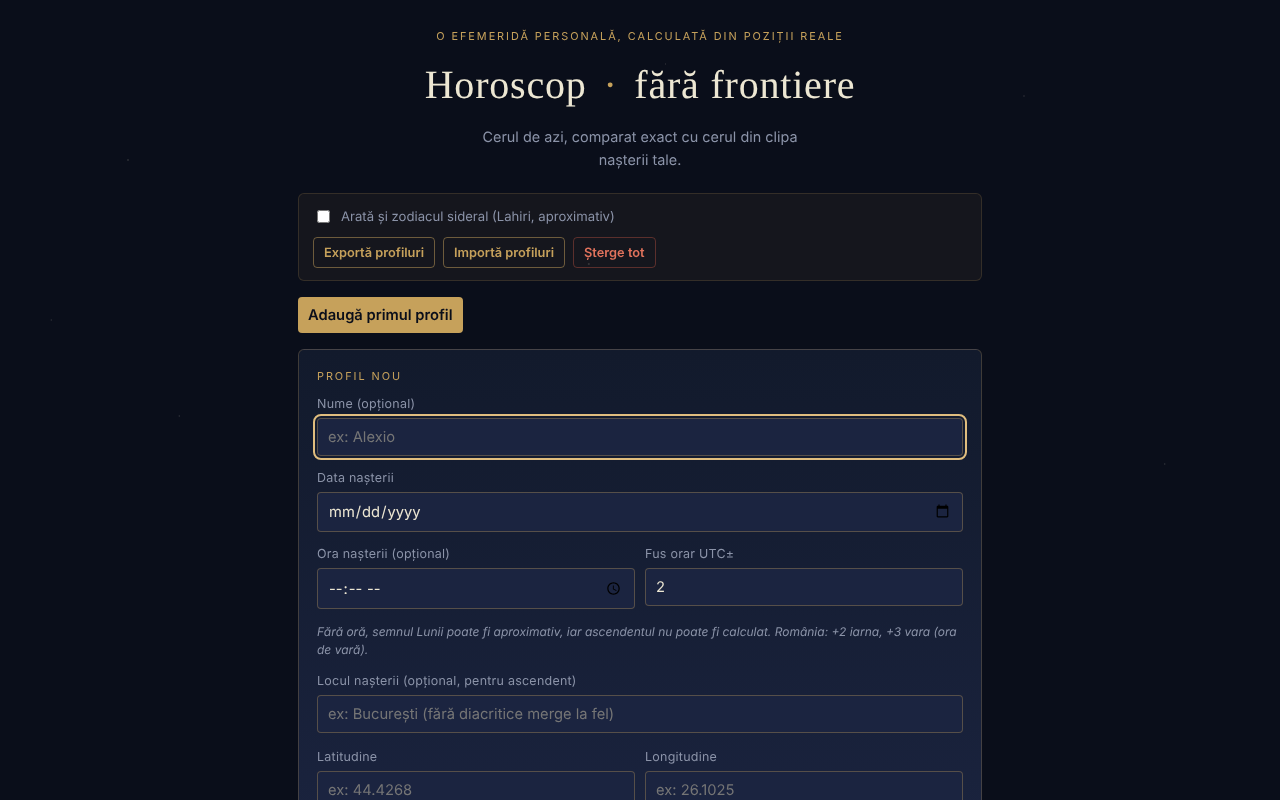
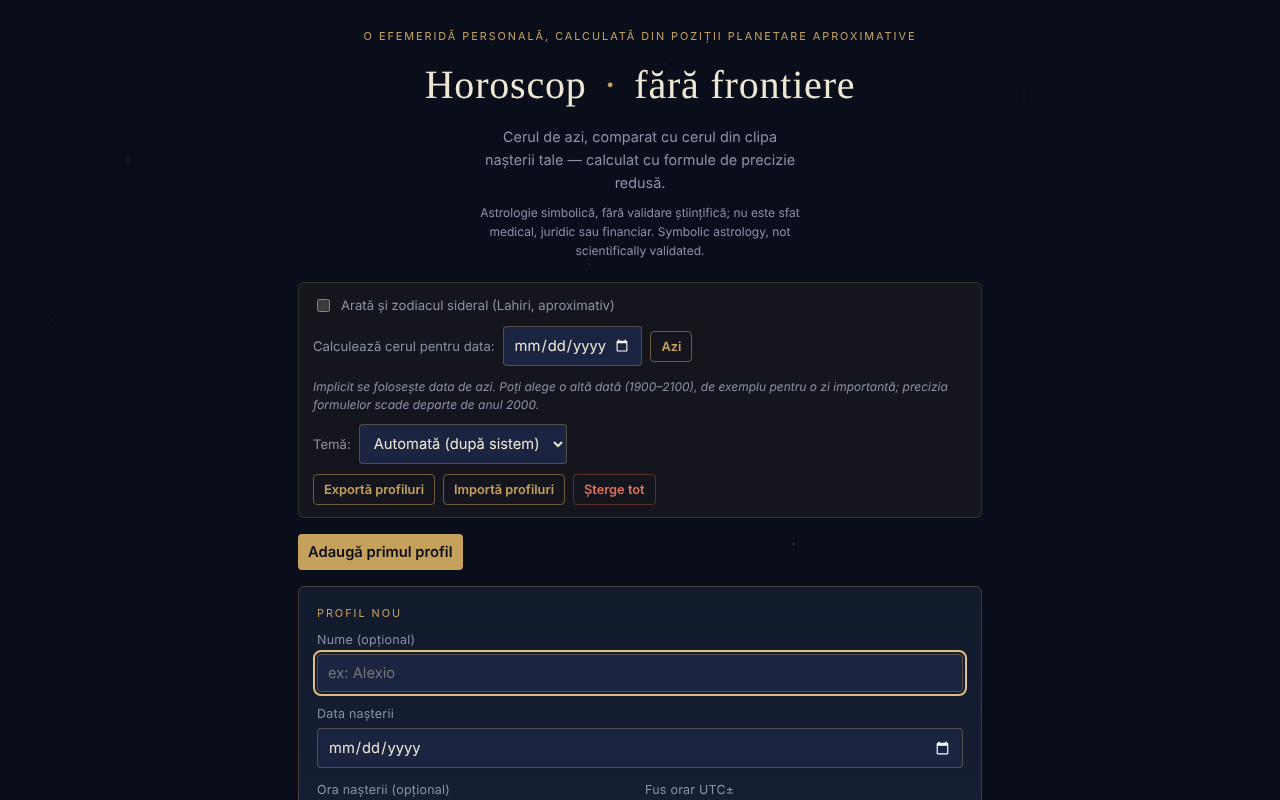
Runda 6 (11 octombrie 2026): reparații și îmbunătățiri
Claude-Session: https://claude.ai/code/session_01D2sCEb3hy3nutYexhUfQFs

diff --git a/index.html b/index.html
@@ -4,7 +4,8 @@
 <meta charset="UTF-8">
 <meta name="viewport" content="width=device-width, initial-scale=1.0">
 <meta name="theme-color" content="#0a0e1a">
-<meta http-equiv="Content-Security-Policy" content="default-src 'none'; script-src 'sha256-qpChykklblVjftxe5uCfiKr0xCiEGfCIja/RLh8Pb7I='; style-src 'unsafe-inline'; connect-src 'none'; base-uri 'none'; form-action 'none';">
+<meta name="color-scheme" content="dark light">
+<meta http-equiv="Content-Security-Policy" content="default-src 'none'; script-src 'sha256-+s0Jozu7zyEGLCtU2QJmF/vAf27/NO/pkwvtp1FY1+Q='; style-src 'unsafe-inline'; connect-src 'none'; base-uri 'none'; form-action 'none';">
 <meta name="copyright" content="Licență nedeclarată de autor; toate drepturile rezervate până la o declarație contrară. Contact: alexio@trom.tf">
 <title>Horoscop · fără frontiere</title>
 <!-- Licență: nedeclarată de autor; toate drepturile rezervate până la o declarație contrară. Contact: alexio@trom.tf
@@ -19,6 +20,28 @@
   --sans:Optima,Candara,'Noto Sans','Segoe UI',Arial,sans-serif;
   --mono:'Courier New',ui-monospace,'SF Mono',Consolas,monospace;
 }
+/* temă luminoasă: automat după preferința sistemului sau forțat din setări */
+:root[data-theme="dark"]{color-scheme:dark;}
+:root[data-theme="light"]{
+  color-scheme:light;
+  --ink-900:#f5f0e1; --ink-800:#fffcf4; --ink-700:#ece4cf;
+  --parchment:#1f1b2e; --parchment-dim:#575e72;
+  --brass:#7a5516; --brass-bright:#634410;
+  --verdigris:#266a53; --oxblood:#8f3a2c; --oxblood-text:#9c3424;
+}
+:root[data-theme="light"] .stars{opacity:0;animation:none}
+@media (prefers-color-scheme: light){
+  :root:not([data-theme="dark"]){
+    --ink-900:#f5f0e1; --ink-800:#fffcf4; --ink-700:#ece4cf;
+    --parchment:#1f1b2e; --parchment-dim:#575e72;
+    --brass:#7a5516; --brass-bright:#634410;
+    --verdigris:#266a53; --oxblood:#8f3a2c; --oxblood-text:#9c3424;
+  }
+  :root:not([data-theme="dark"]) .stars{opacity:0;animation:none}
+}
+.ref-row{display:flex;gap:8px;align-items:center;flex-wrap:wrap;font-size:.82rem;color:var(--parchment-dim);}
+.ref-row input[type=date]{min-width:9.5em;}
+.ref-row button{font-size:.8rem;padding:7px 10px;}
 *{box-sizing:border-box;}
 html,body{margin:0;padding:0;}
 body{
@@ -194,6 +217,16 @@ footer a{color:var(--brass-bright);}
   <main>
   <div class="settings-bar">
     <label class="toggle-label"><input type="checkbox" id="siderealToggle"> Arată și zodiacul sideral (Lahiri, aproximativ)</label>
+    <div class="ref-row">
+      <label for="refDate">Calculează cerul pentru data:</label>
+      <input type="date" id="refDate" min="1900-01-01" max="2100-12-31">
+      <button class="secondary" id="refToday" type="button">Azi</button>
+    </div>
+    <p class="hint" id="refNote" role="status">Implicit se folosește data de azi. Poți alege o altă dată (1900–2100), de exemplu pentru o zi importantă; precizia formulelor scade departe de anul 2000.</p>
+    <div class="ref-row">
+      <label for="themeSel">Temă:</label>
+      <select id="themeSel"><option value="auto">Automată (după sistem)</option><option value="dark">Întunecată</option><option value="light">Luminoasă</option></select>
+    </div>
     <div class="settings-actions">
       <button class="secondary" id="btnExport">Exportă profiluri</button>
       <button class="secondary" id="btnImport">Importă profiluri</button>
@@ -2097,7 +2130,7 @@ function interpret(natal, transits, aspects){
   var dp = out.dominant ? out.dominant.planetKey : null;
   var meta = dp ? PLANETS_META[dp] : null;
   out.luckyColor = meta ? meta.color : SIGN_COLOR_FALLBACK[sunSignIdx];
-  out.luckyHour = meta ? meta.hour : 'oricând azi';
+  out.luckyHour = meta ? meta.hour : 'oricând '+refWord();
   var now = transits.now;
   out.luckyNumber = ((now.getFullYear()+now.getMonth()+1+now.getDate()+Math.floor(natal.soare.deg)) % 9) + 1;
   var harmAspect = null;
@@ -2598,7 +2631,7 @@ function renderNatalSummary(el, natal, solarReturnD, nowD, milestones, birthDate
 function renderTransitsList(el, transits, eyebrowEl){
   var now = transits.now;
   var dateStr = now.toLocaleDateString('ro-RO', {day:'numeric', month:'long', year:'numeric'});
-  eyebrowEl.textContent = 'Cerul de azi — '+dateStr;
+  eyebrowEl.textContent = state.refDate ? 'Cerul la data de '+dateStr : 'Cerul de azi — '+dateStr;
   var order = ['soare','luna','mercur','venus','marte','jupiter','saturn','uranus','neptun','pluto'];
   var html='';
   var ayNow = state.showSidereal ? ayanamsaLahiri(transits.d) : null;
@@ -2627,7 +2660,7 @@ function renderTransitsList(el, transits, eyebrowEl){
     var hrsLeft = (transits.voc.ingressD - transits.d)*24;
     html += '<p class="note">Luna e goală de curs (fără alte aspecte majore) încă ~'+hrsLeft.toFixed(1)+' ore, până intră în '+SIGNS[transits.voc.nextSignIdx].name+'. Tradițional, nu e cel mai bun moment să începi lucruri noi.</p>';
   } else {
-    html += '<p class="note">Luna nu e goală de curs azi — mai formează cel puțin un aspect major înainte să schimbe semnul.</p>';
+    html += '<p class="note">Luna nu e goală de curs '+refWord()+' — mai formează cel puțin un aspect major înainte să schimbe semnul.</p>';
   }
   el.innerHTML = html;
 }
@@ -2850,7 +2883,7 @@ function renderWeekForecast(el, natal, fromD){
   var html = '';
   days.forEach(function(day, idx){
     var dt = new Date(Date.UTC(2000,0,1,12,0,0) + day.d*86400000);
-    var label = (idx===0 ? 'Azi' : dayNames[dt.getUTCDay()]) + ' ' + dt.getUTCDate() + '.' + String(dt.getUTCMonth()+1).padStart(2,'0');
+    var label = (idx===0 && !state.refDate ? 'Azi' : dayNames[dt.getUTCDay()]) + ' ' + dt.getUTCDate() + '.' + String(dt.getUTCMonth()+1).padStart(2,'0');
     var desc;
     if (day.best){
       var natalSym = day.best.natalKey==='asc' ? 'Asc' : PLANETS_META[day.best.natalKey].sym;
@@ -2981,6 +3014,7 @@ function saveSidereal(v){
 function buildShareText(profile, interp){
   var lines = [];
   lines.push('Horoscop · fără frontiere' + (profile && profile.name ? ' — ' + profile.name : ''));
+  if (state.refDate) lines.push('Data: ' + state.refDate);
   lines.push('');
   lines.push('Panorama: ' + interp.panorama);
   lines.push('');
@@ -3012,7 +3046,7 @@ function copyTodayReading(){
   var profile = state.profiles.find(function(p){ return p.id===state.activeId; });
   if (!profile){ showToast('Alege întâi un profil.'); return; }
   var natal = computeNatal(profile);
-  var transits = computeTransits(new Date());
+  var transits = computeTransits(nowDate());
   var aspects = computeAspects(natal, transits);
   var interp = interpret(natal, transits, aspects);
   var text = buildShareText(profile, interp);
@@ -3105,7 +3139,19 @@ function importProfilesFromFile(file){
 }
 
 /* ================= UI wiring ================= */
-var state = { profiles: loadProfiles(), activeId: loadActiveId(), editingId: null, showSidereal: loadSidereal() };
+var state = { profiles: loadProfiles(), activeId: loadActiveId(), editingId: null, showSidereal: loadSidereal(), refDate: null };
+var THEME_KEY = 'horoscopFF_theme_v1';
+function loadTheme(){ try { var v = localStorage.getItem(THEME_KEY); return (v==='dark' || v==='light') ? v : 'auto'; } catch(e){ return 'auto'; } }
+function applyTheme(v){
+  if (v==='dark' || v==='light') document.documentElement.setAttribute('data-theme', v);
+  else document.documentElement.removeAttribute('data-theme');
+}
+function nowDate(){
+  var m = state.refDate && /^(\d{4})-(\d{2})-(\d{2})$/.exec(state.refDate);
+  if (!m) return new Date();
+  return new Date(+m[1], +m[2]-1, +m[3], 12, 0, 0);
+}
+function refWord(){ return state.refDate ? 'în această zi' : 'azi'; }
 if (state.profiles.length && (!state.activeId || !state.profiles.some(function(p){ return p.id===state.activeId; }))){
   state.activeId = state.profiles.length ? state.profiles[0].id : null;
 }
@@ -3326,7 +3372,7 @@ function renderAll(){
   document.getElementById('profileForm').hidden = true;
   try {
     var natal = computeNatal(profile);
-    var now = new Date();
+    var now = nowDate();
     var transits = computeTransits(now);
     var aspects = computeAspects(natal, transits);
     var interp = interpret(natal, transits, aspects);
@@ -3380,6 +3426,25 @@ document.getElementById('siderealToggle').addEventListener('change', function(){
   state.showSidereal = this.checked;
   saveSidereal(state.showSidereal);
   renderAll();
+});
+var refInput = document.getElementById('refDate'), refNote = document.getElementById('refNote');
+var REF_DEFAULT_NOTE = refNote.textContent;
+function setRefDate(v){
+  var m = /^(\d{4})-(\d{2})-(\d{2})$/.exec(v || '');
+  var ok = m && +m[1] >= 1900 && +m[1] <= 2100 && !isNaN(new Date(+m[1], +m[2]-1, +m[3]).getTime());
+  if (v && !ok){ showToast('Data trebuie să fie între 1900 și 2100.'); v = ''; refInput.value = ''; }
+  state.refDate = v || null;
+  refNote.textContent = state.refDate ? 'Cerul și citirea sunt calculate pentru ' + state.refDate + ', nu pentru azi. Apasă „Azi” pentru a reveni.' : REF_DEFAULT_NOTE;
+  renderAll();
+}
+refInput.addEventListener('change', function(){ setRefDate(this.value); });
+document.getElementById('refToday').addEventListener('click', function(){ refInput.value = ''; setRefDate(''); });
+var themeSel = document.getElementById('themeSel');
+themeSel.value = loadTheme();
+applyTheme(themeSel.value);
+themeSel.addEventListener('change', function(){
+  applyTheme(this.value);
+  try { localStorage.setItem(THEME_KEY, this.value); } catch(e){}
 });
 document.getElementById('btnExport').addEventListener('click', exportProfiles);
 document.getElementById('btnCopyReading').addEventListener('click', copyTodayReading);

diff --git a/README.md b/README.md
@@ -21,6 +21,8 @@ Horoscop este o aplicație dintr-un singur fișier HTML care calculează în bro
 - „Muzica sferelor": fiecare planetă natală devine un ton („▶ Cântă tema ta" / „■ Oprește").
 - „Portret cosmic": videoclip de aproximativ 6 secunde generat local, descărcabil ca `portret-cosmic.webm`.
 - Opțiune pentru zodiacul sideral (Lahiri, aproximativ).
+- „Calculează cerul pentru data”: alegi o altă dată (1900–2100, ora 12:00 locală) și toate secțiunile (cerul, aspectele, săptămâna, citirea, copierea) se calculează pentru acea zi; „Azi” revine. Data aleasă nu se păstrează între sesiuni.
+- Temă: automată (după preferința sistemului), întunecată sau luminoasă; alegerea se păstrează local.
 - Secțiune „Cum se calculează asta" cu precizia estimată și limitele (nu sunt calculate casele astrologice, doar ascendentul).
 
 ## Manual de utilizare
@@ -29,13 +31,13 @@ Horoscop este o aplicație dintr-un singur fișier HTML care calculează în bro
 2. Completează data nașterii; opțional numele, ora, fusul orar UTC± (România: +2 iarna, +3 vara) și latitudinea/longitudinea locului. Fără oră, ascendentul nu poate fi calculat.
 3. Apasă „Salvează profilul" (sau „Renunță").
 4. Citește secțiunile zilei; „↻ Actualizează acum" recalculează cerul.
-5. Bifează opțiunea pentru zodiac sideral dacă dorești.
+5. Bifează opțiunea pentru zodiac sideral dacă dorești; din „Calculează cerul pentru data” poți vedea cerul într-o altă zi; din „Temă” alegi aspectul.
 6. Pentru muzică apasă „▶ Cântă tema ta"; pentru video „🎬 Generează portretul", apoi descarcă fișierul.
 7. „Exportă profiluri" salvează profilurile într-un fișier; „Importă profiluri" le reîncarcă; „Șterge tot" le elimină. Tasta Escape închide formularul de profil (dacă există alte profiluri).
 
 ## Confidențialitate și rețea
 
-- Local: profilurile se păstrează în `localStorage` (`horoscopFF_profiles_v1`, profilul activ `horoscopFF_active_v1`, opțiunea sideral `horoscopFF_sidereal_v1`). Dacă stocarea nu este disponibilă (mod privat), aplicația afișează un avertisment și profilurile nu se păstrează fără export.
+- Local: profilurile se păstrează în `localStorage` (`horoscopFF_profiles_v1`, profilul activ `horoscopFF_active_v1`, opțiunea sideral `horoscopFF_sidereal_v1`, tema `horoscopFF_theme_v1`). Dacă stocarea nu este disponibilă (mod privat), aplicația afișează un avertisment și profilurile nu se păstrează fără export.
 - Rețea: în codul verificat nu există apeluri `fetch`, scripturi sau resurse externe; calculele se fac în browser.
 - Interfața este în limba română.
 
@@ -58,6 +60,7 @@ Aceeași declarație apare în antetul HTML și în subsolul aplicației. Nu exi
 ## Istoric / Changelog
 
 Ultima actualizare: 11 octombrie 2026 (aplicația nu are număr de versiune; subsolul afișează „actualizat 11 octombrie 2026”).
+- Nou: „Calculează cerul pentru data” (1900–2100) și alegerea temei (automată / întunecată / luminoasă, cu paletă luminoasă și suport pentru `prefers-color-scheme`). Textele „azi” se adaptează când e aleasă altă dată. Hash-ul CSP recalculat; captura de ecran reîmprospătată.
 - Sinastria: cât timp nu e ales niciun profil, cardul afișează acum „Alege un profil din listă pentru a vedea compatibilitatea.”, în loc să rămână gol.
 - Accesibilitate: conținutul paginii este acum într-un `<main>` (înainte exista doar când graficul era vizibil); cele două liste derulabile de revoluții solare au etichete distincte; axe-core = 0 violări, cu și fără profil, la 1280 și 360 px.
 - Politica CSP leagă acum scriptul prin hash (înainte `'unsafe-inline'`).
